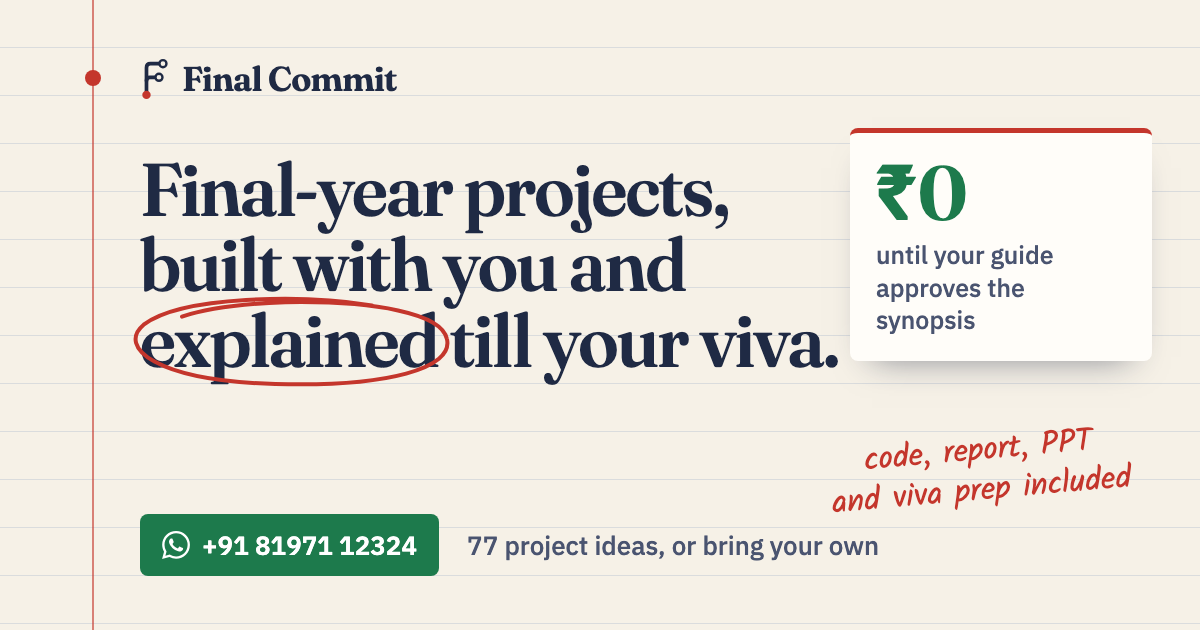
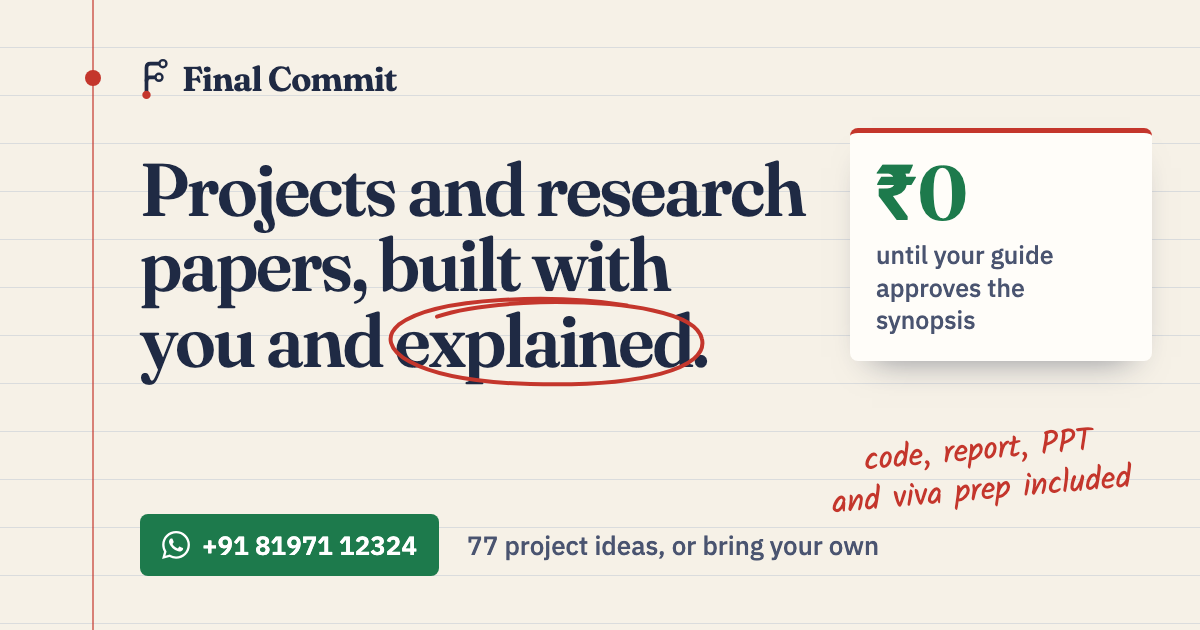
Broaden the hero beyond final-year projects; add research paper help

Changed region(s): [[0.0925, 0.2413, 0.7092, 0.6333]]

diff --git a/scripts/og.html b/scripts/og.html
@@ -43,7 +43,7 @@
       <svg width="30" height="42" viewBox="26 14 52 74"><g fill="none" stroke="#1f2a44" stroke-width="6.5" stroke-linecap="round" stroke-linejoin="round"><path d="M37 76 V31 Q37 24 44 24 H60"/><path d="M37 54 Q37 48 43 48 H53"/></g><circle cx="66" cy="24" r="6.2" fill="#f6f1e7" stroke="#1f2a44" stroke-width="4.2"/><circle cx="59" cy="48" r="6.2" fill="#f6f1e7" stroke="#1f2a44" stroke-width="4.2"/><circle cx="37" cy="79" r="7.4" fill="#c4362c"/></svg>
       Final Commit
     </div>
-    <h1>Final-year projects, built with you and <span class="circled">explained<svg viewBox="0 0 200 64" preserveAspectRatio="none"><path d="M150 9 C 108 2, 36 3, 13 21 C -3 35, 20 56, 92 58 C 160 60, 199 48, 195 30 C 192 14, 152 6, 98 7 C 72 8, 50 11, 36 16"/></svg></span> till your viva.</h1>
+    <h1>Projects and research papers, built with you and <span class="circled">explained<svg viewBox="0 0 200 64" preserveAspectRatio="none"><path d="M150 9 C 108 2, 36 3, 13 21 C -3 35, 20 56, 92 58 C 160 60, 199 48, 195 30 C 192 14, 152 6, 98 7 C 72 8, 50 11, 36 16"/></svg></span>.</h1>
   </div>
   <div class="promise"><p class="big">₹0</p><p>until your guide approves the synopsis</p></div>
   <div class="foot">

diff --git a/src/data/site.ts b/src/data/site.ts
@@ -2,9 +2,9 @@
 export const site = {
   name: 'Final Commit',
   url: 'https://finalcommitprojects.github.io',
-  tagline: 'Final-year projects, built with you and explained till your viva.',
+  tagline: 'Student projects and research papers, built with you and explained.',
   description:
-    'Final-year and mini software projects for BE, B.Tech, MCA, BCA, B.Sc and M.Tech students across India, built with you from scratch. Nothing to pay until your guide approves the synopsis. Code, report, PPT and viva prep included.',
+    'Software projects and research papers for BE, B.Tech, MCA, BCA, B.Sc and M.Tech students across India, from mini projects to final-year work, built with you from scratch. Nothing to pay until your guide approves the synopsis. Code, report, PPT and viva prep included.',
   phone: '+91 81971 12324',
   phoneHref: 'tel:+918197112324',
   whatsapp: '918197112324',
